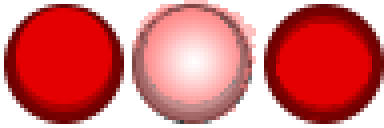
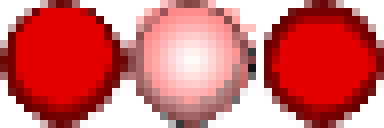
deleted unnecessary ani assets added hearts

diff --git a/game/game.js b/game/game.js
@@ -4,7 +4,7 @@ Shootme.Game = function (game) {
 
     this.inputs = {p1: null, p2: null};
 
-    this.lives = {p1: 5, p2: 5};
+    this.lives = {p1: null, p2: null};
 
     this.stoppageTime;
 
@@ -65,6 +65,15 @@ Shootme.Game.prototype = {
             tempButtons[nein].enabled = false;
         }
 
+        this.lives.p1 = this.add.group();
+        this.lives.p2 = this.add.group();
+
+        for (var i = 0; i < 5; i++) {
+            this.lives.p1.create(20 + 40 * i, 0, 'heart');
+            this.lives.p2.create(20 + 40 * i, this.world.height - 100, 'heart');
+        }
+
+
         this.enableRandomButton();
     },
 
@@ -76,7 +85,7 @@ Shootme.Game.prototype = {
         if (this.gameScore) {
             this.gameScore.destroy();
         }
-        this.gameScore = this.add.text(550, 500, 'lives: ' + this.lives.p1 + ' : ' + this.lives.p2, {font: '36pt Arial'});
+        this.gameScore = this.add.text(550, 500, 'lives: ' + this.lives.p1.length + ' : ' + this.lives.p2.length, {font: '36pt Arial'});
     },
 
 
@@ -146,22 +155,29 @@ Shootme.Game.prototype = {
         if (timeP1 && timeP2) {
             if (Number.isInteger(timeP1) && isNaN(timeP2) || timeP1 < timeP2) {
                 //p1 shoot ani start
-                this.p1.animations.stop();
-                var shoot = this.p1.animations.play('shoot', 10, false);
-                shoot.onComplete.add(function () {
-                    this.p1.animations.stop();
-                    this.p1.animations.play('idle');
-                }, this);
-                this.lives.p1--;
+                this.lives.p1.getAt(0).destroy();
+                var p1_anim = this.p1.animations;
+                this.time.events.add(Phaser.Timer.SECOND * 1.5, function () {
+                    p1_anim.stop();
+                    var shoot = p1_anim.play('shoot', 10, false);
+                    shoot.onComplete.add(function () {
+                        p1_anim.stop();
+                        p1_anim.play('idle');
+                    }, this);
+                });
             } else if (Number.isInteger(timeP2) && isNaN(timeP1) || timeP2 < timeP1) {
                 //p2 shoot ani start
-                this.lives.p2--;
-                this.p2.animations.stop();
-                var shoot = this.p2.animations.play('shoot', 10, false);
-                shoot.onComplete.add(function () {
-                    this.p2.animations.stop();
-                    this.p2.animations.play('idle');
-                }, this);
+                this.lives.p2.getAt(0).destroy();
+                var p2_anim = this.p2.animations;
+                this.time.events.add(Phaser.Timer.SECOND * 1.5, function () {
+                    p2_anim.stop();
+
+                    var shoot = p2_anim.play('shoot', 10, false);
+                    shoot.onComplete.add(function () {
+                        p2_anim.stop();
+                        p2_anim.play('idle');
+                    }, this);
+                });
             }
 
             this.buttons.p1[this.enabledButton].frame = 0;
@@ -174,13 +190,17 @@ Shootme.Game.prototype = {
 
             this.input.enabled = false;
 
-            if (this.lives.p1 === 0 || this.lives.p2 === 0) {
+            if (this.lives.p1.length === 0 || this.lives.p2.length === 0) {
                 //show end screen
 
                 //add button / input click for proceeding
 
                 // go to state main menu
                 createScoreAnimation(this.world.centerX, "game ended! press any button", this);
+                this.p1.animations.stop();
+                this.p2.animations.stop();
+                this.gameScore.destroy();
+                this.add.text(550, 500, "end, press any key to exit");
 
                 this.input.onDown.add(function () {
                     this.state.start('MainMenu');

diff --git a/game/preloader.js b/game/preloader.js
@@ -17,18 +17,15 @@ Shootme.Preloader.prototype = {
 
         this.load.image('btn-play', 'assets/button_play.png');
 
-        this.load.spritesheet('btns-red', 'assets/buttons_red.png', 128,128);
-        this.load.spritesheet('btns-blue', 'assets/buttons_blue.png', 128,128);
+        this.load.spritesheet('btns-red', 'assets/buttons_red.png', 128, 128);
+        this.load.spritesheet('btns-blue', 'assets/buttons_blue.png', 128, 128);
         this.load.image('bg', 'assets/background.png');
 
-        this.load.spritesheet('p1_idle', 'assets/red_idle.png', 256, 256);
-        this.load.spritesheet('p2_shoot', 'assets/red_shoot.png', 256, 256);
         this.load.spritesheet('p1_animations', 'assets/yellow_animations.png', 256, 256);
 
-        this.load.spritesheet('p2_idle', 'assets/yellow_idle.png', 256, 256);
-        this.load.spritesheet('p2_shoot', 'assets/yellow_shoot.png', 256, 256);
         this.load.spritesheet('p2_animations', 'assets/red_animations.png', 256, 256);
 
+        this.load.image('heart', 'assets/heart.png');
     },
 
     create: function () {
